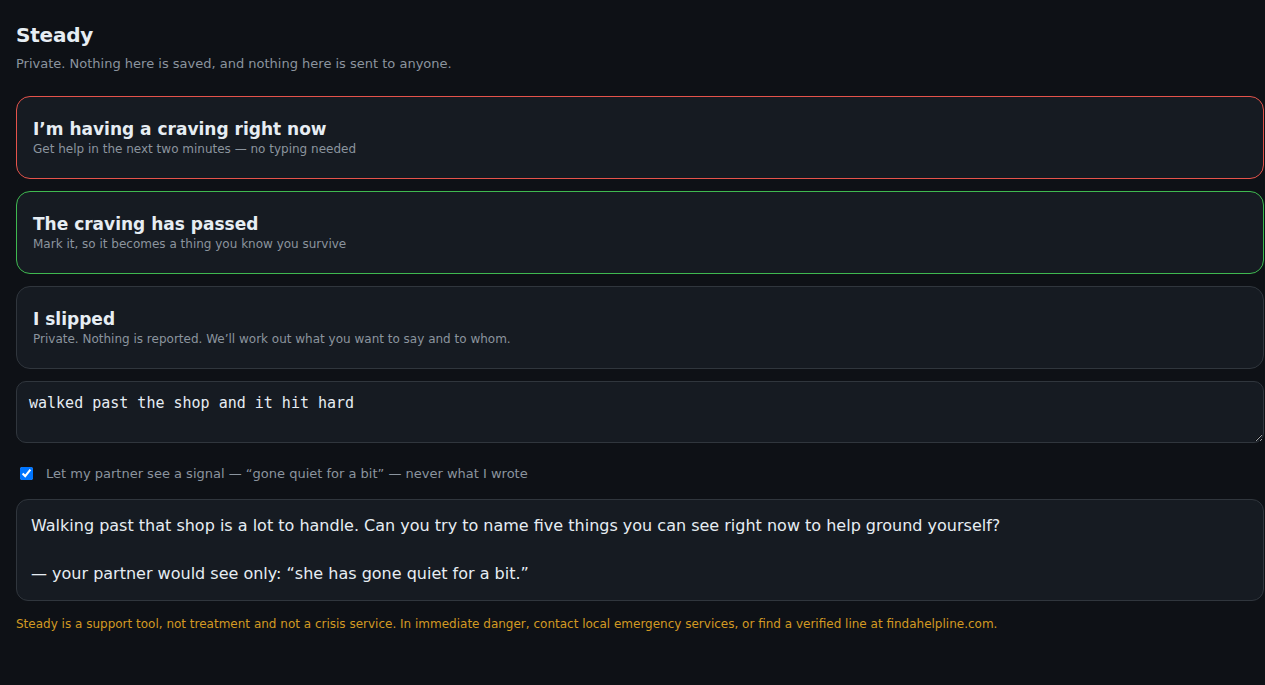
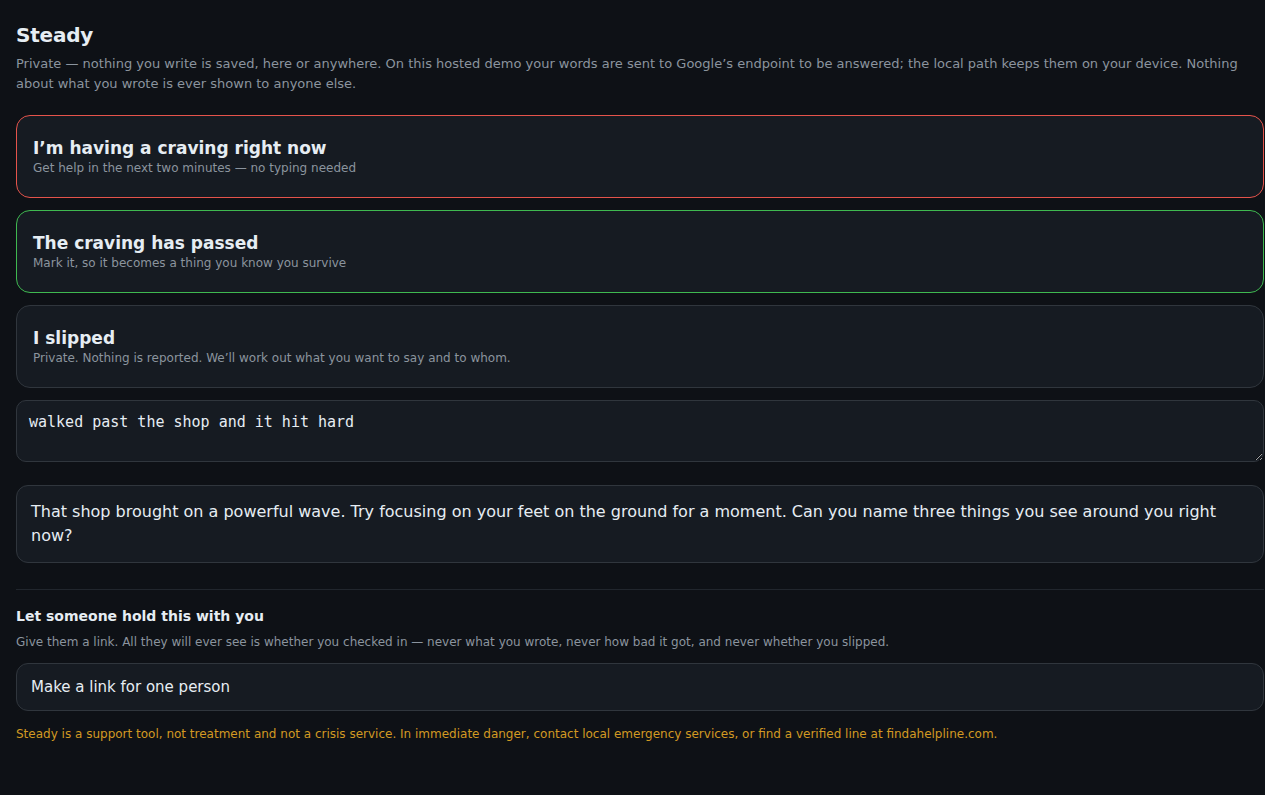
Fresh reply screenshot, and document the partner connection in the README

diff --git a/README.md b/README.md
@@ -57,6 +57,37 @@ latency is the model's, not the box's. Far too slow to be a real 3am button, whi
 the product runs a small non-reasoning model on your own device.
 
 
+## The partner connection
+
+The point of Steady is a relationship, not a solo app, so there are two screens:
+
+- **`/`** - her side: three buttons, an optional note, and *"make a link for one person"*.
+- **`/w/<code>`** - his side: a state line and a time. No buttons, no notes, no history.
+
+What the server stores per link is **one float**: the epoch of her last check-in.
+
+```
+_WATCH[code] = time.time()      # and nothing else, ever
+```
+
+The supporter's phone receives exactly two fields - `signal` and `minutes` - derived from that
+timestamp and nothing more:
+
+| her last check-in | what he sees |
+|---|---|
+| never (link made, unused) | *hasn't checked in yet* |
+| under 45 min | *checked in recently* |
+| under 6 h | *has gone quiet for a bit* |
+| longer | *hasn't been back today* |
+
+**The slip button never pings at all** - not even a timestamp. Otherwise "checked in" versus "gone
+quiet" would start to mean something, and the moment a supporter can infer a slip from timing, the
+one button people lie to is dead. `index.html` only pings for `craving` and `steady`.
+
+The store is in memory on purpose: nothing is written to disk, so there is no log to leak, subpoena
+or read over a shoulder. A restart forgets every pairing, and a dead link says so plainly instead
+of pretending.
+
 ## The fine-tuning experiment that failed (and is reported anyway)
 
 I tried to *teach* a small model to use the person's own words, and measured it properly.

diff --git a/DEV-POST.md b/DEV-POST.md
@@ -56,14 +56,14 @@ button is worth nothing. **Privacy wasn't the ethical tax on this project. It's 
 Live at **https://steady-21e1.onrender.com** — open it on a phone. Type something, or nothing, and
 tap a button.
 
-![Steady answering with her own words, and the signal her partner would see instead of a transcript](https://raw.githubusercontent.com/Zaygal/steady/main/docs/demo-2-reply.png)
+![Steady answering with her own words](https://raw.githubusercontent.com/Zaygal/steady/main/docs/demo-2-reply.png)
 
 That screenshot is a real reply, word for word:
 
-> *"Walking past that shop is a lot to handle. Can you try to name five things you can see right
-> now to help ground yourself?"*
+> *"That shop brought on a powerful wave. Try focusing on your feet on the ground for a moment.
+> Can you name three things you see around you right now?"*
 >
-> — your partner would see only: *"she has gone quiet for a bit."*
+> — what he sees right now: *"she checked in recently."*
 
 That second line is the entire design on one screen. She gets the help. He gets a signal with no
 content in it. Nobody had to decide whether to be honest.
